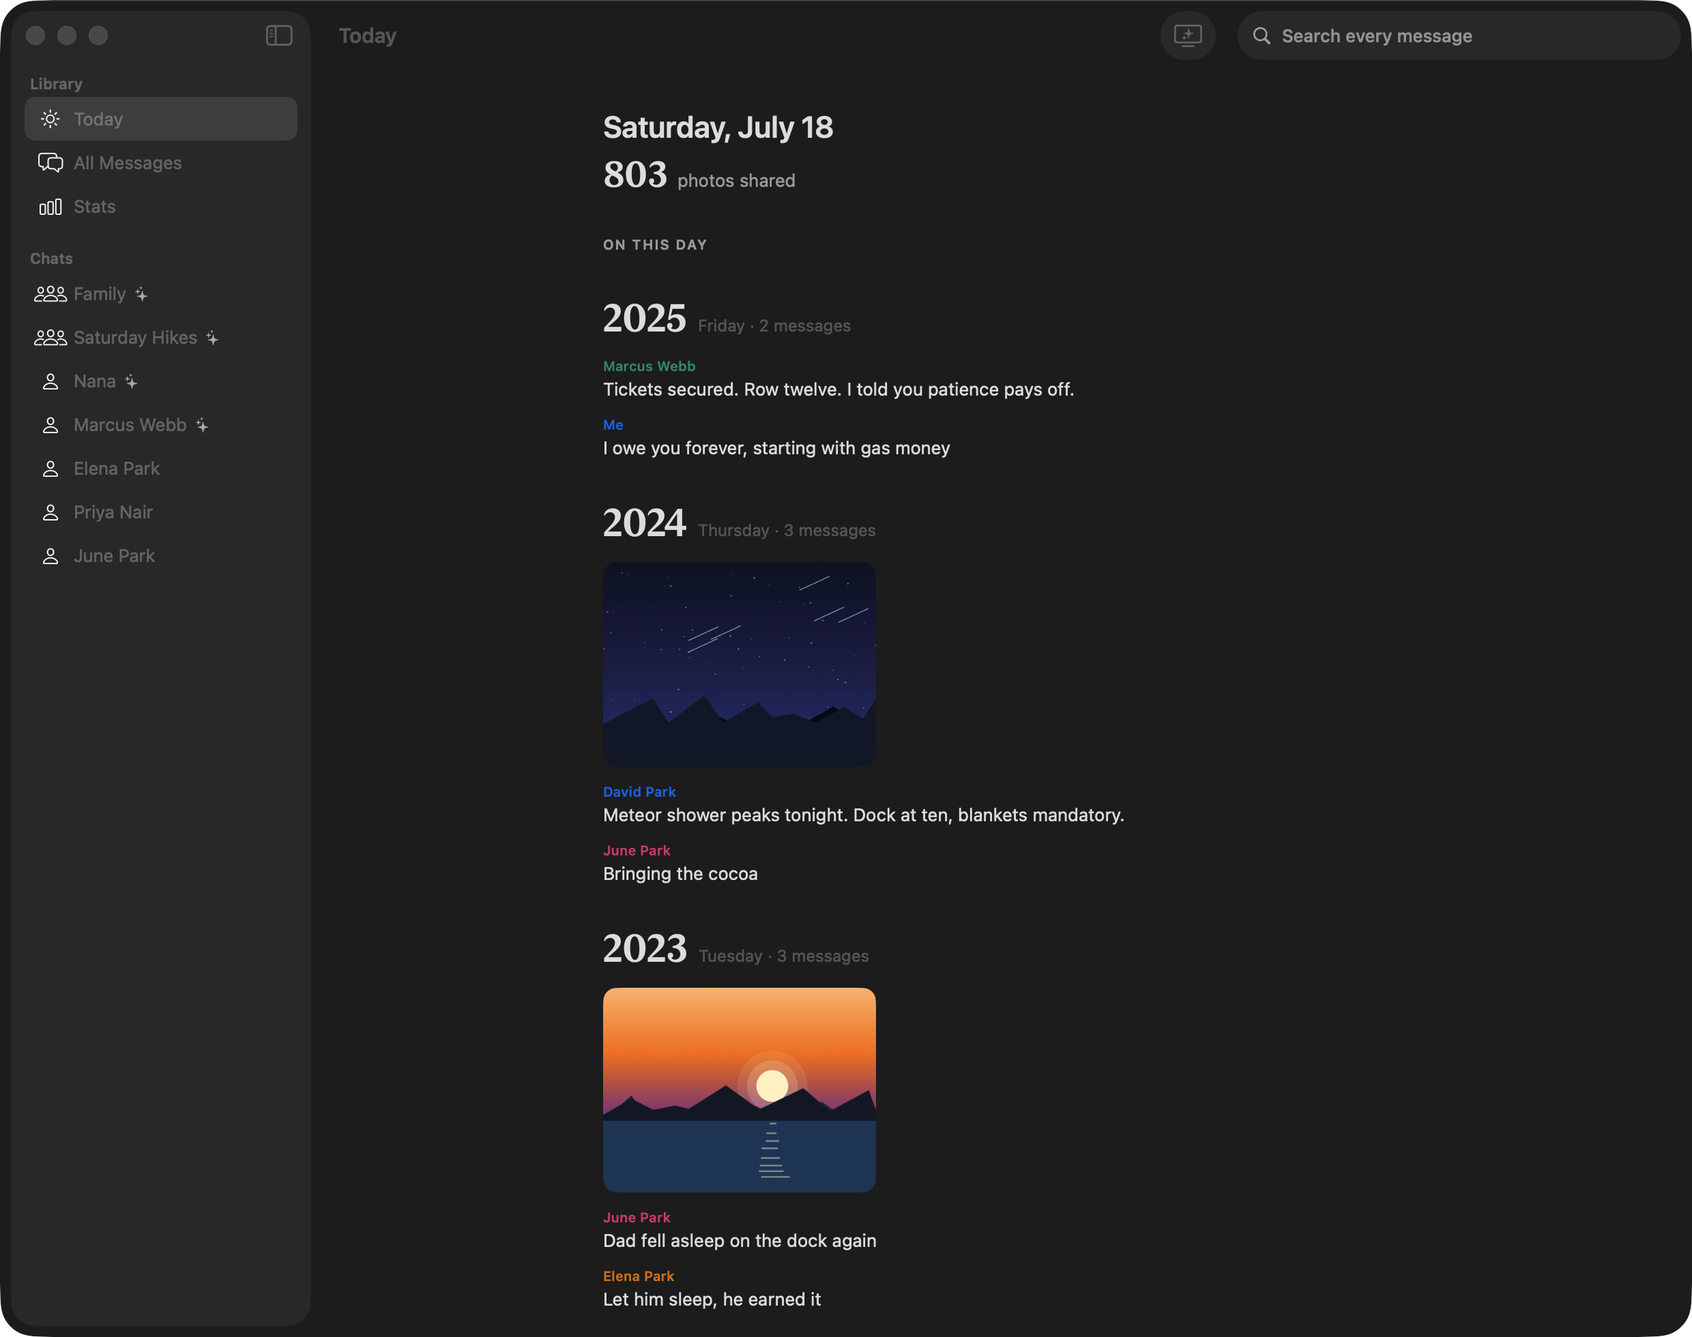
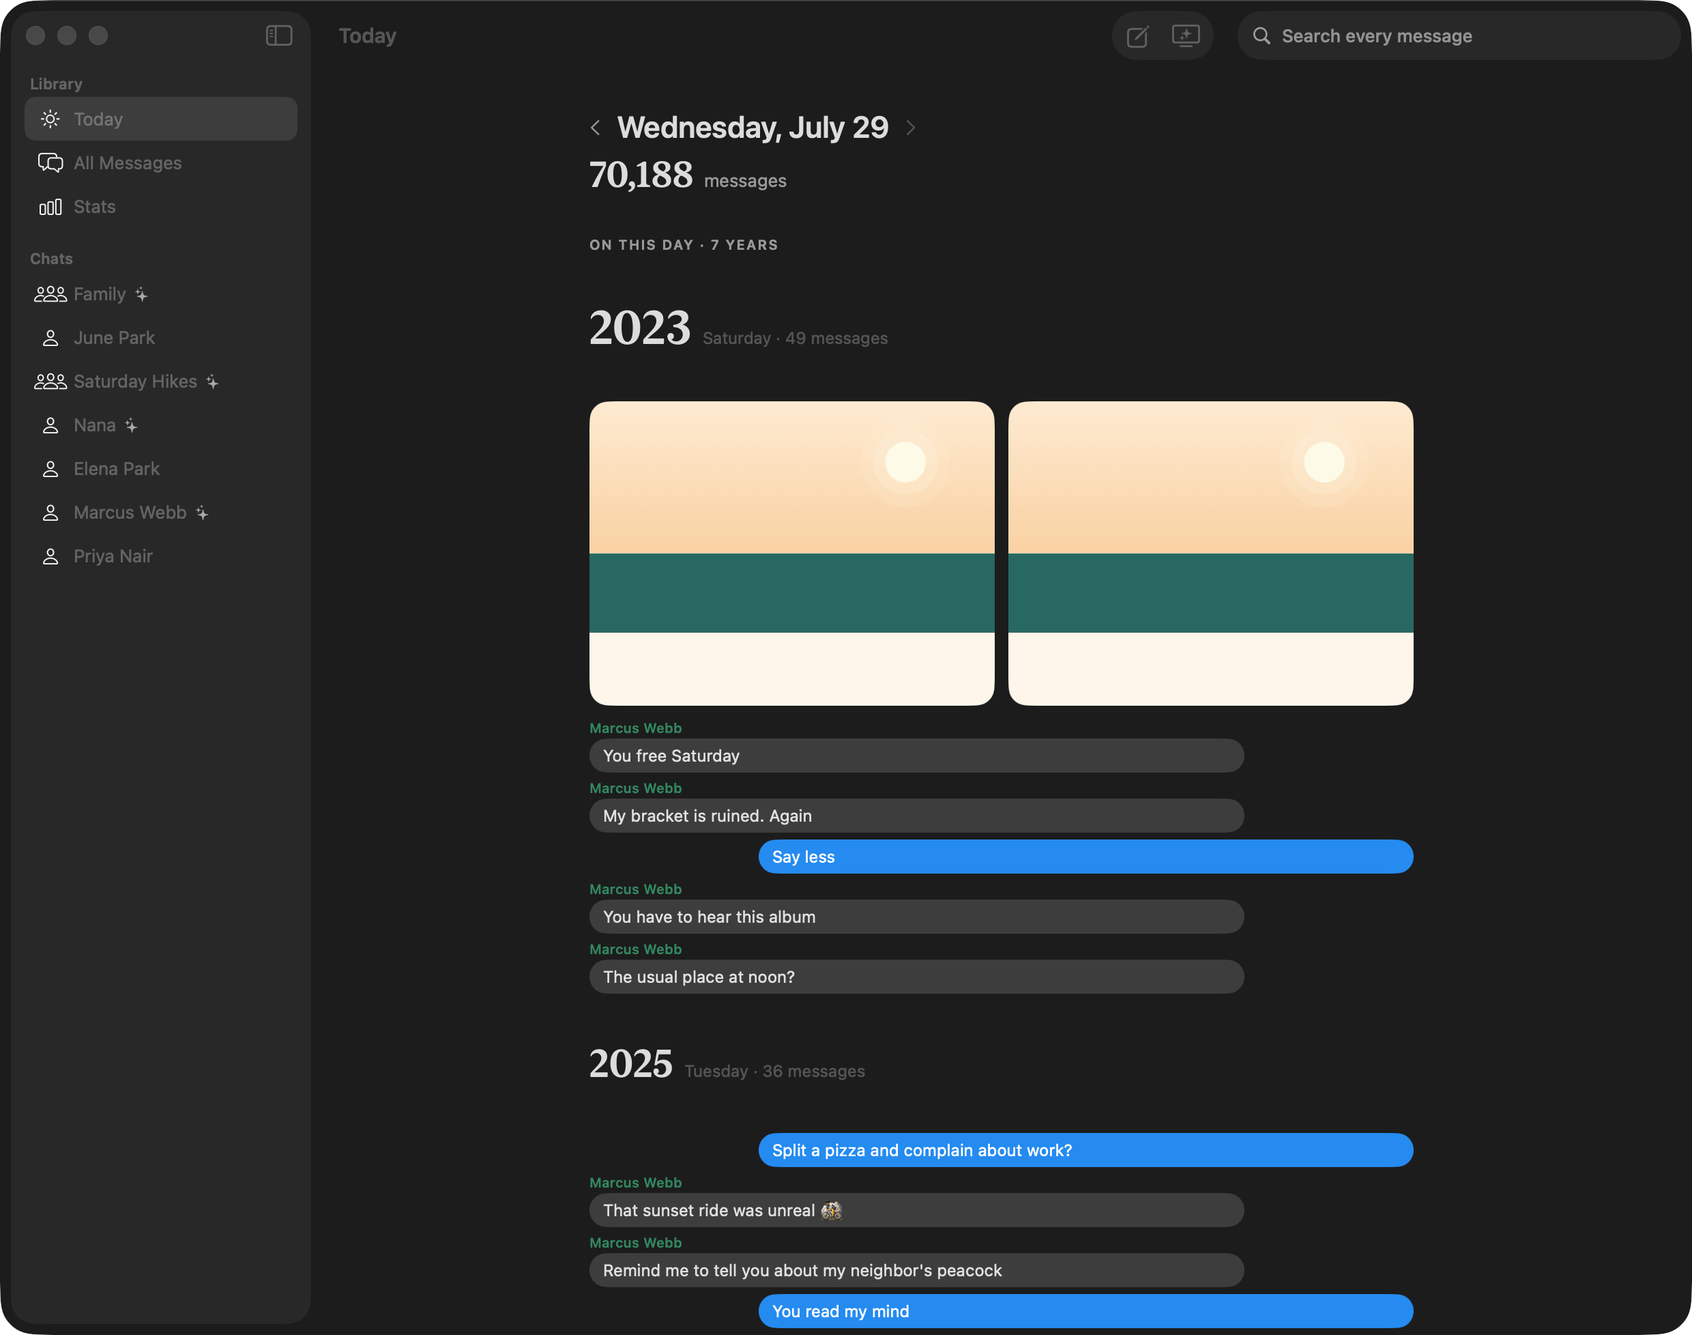
1.3.0 documentation: the release that answers back
Holistic rewrite, one voice. Answer joins the pillars with the
composer, quick reply, New Message, and the Quick Send hero shot
composited over a synthetic desktop. Today is described as the daily
edition it now is. The install story covers the honest permissions
map, sending's two second catch window and echoed-row truthfulness,
Photos rescue, one-human unification, the Cmd+/ cheat sheet, and the
update rehearsal policy. Every screenshot regenerated from demo mode.
Product spec synced from source. Stays on this branch until 1.3.0
ships.

diff --git a/product-spec.md b/product-spec.md
@@ -1,9 +1,11 @@
 # Delivered, product spec
 
-Updated 2026-07-18 (v1.3 shipped: the ship pipeline). Supersedes the framing in the original
-MLP plan (2026-07-11, on Jeff's machine); architecture and decisions from
-that plan carry forward unchanged and are restated here so this document
-stands alone.
+Updated 2026-07-30 (1.3.0 candidate: the sending release). Supersedes
+the framing in the original MLP plan (2026-07-11, on Jeff's machine);
+architecture and decisions from that plan carry forward unchanged and
+are restated here so this document stands alone. Version labels below
+match shipped app versions: the ship pipeline landed inside the 1.2
+series, and 1.3.0 is the release that answers back.
 
 ## Thesis
 
@@ -15,7 +17,8 @@ SQLite file behind Full Disk Access.
 
 **Delivered is the advanced view of Messages that Apple never wrote.**
 Search everything in milliseconds. Browse the whole archive as one
-continuous timeline. Export any chat as clean Markdown or structured
+continuous timeline. Answer from wherever the archive moved you, without
+losing your place. Export any chat as clean Markdown or structured
 JSON, in formats designed to drop straight into an LLM context window. And put
 the whole thing on a TV as ambient art with memories mode.
 
@@ -44,18 +47,30 @@ the timeline where Apple ships theirs.
    LLM context: "drop your family chat into Claude and ask it
    questions." The .delivered archive package is the machine-portable
    whole-library form.
-4. **Memories**: fullscreen ambient mode: Ken Burns photos, temporally
-   coherent quote bubbles, tapback bursts, stats. The showcase, the
-   demo, the reason someone installs it, and then pillars 1-3 keep it
-   installed.
+4. **Answer** (1.3.0): the archive moves you, and you can act on it
+   without leaving. A composer under every transcript, quick reply on
+   Today cards and search hits, Cmd+N for a fresh conversation with
+   anyone in Contacts, and Quick Send, a global hotkey panel that sends
+   a message from any app without switching. Sending goes through
+   Messages.app via Apple Events; the archive itself stays read-only
+   forever, and nothing is ever claimed sent until the echoed row
+   appears in the library.
+5. **Memories**: fullscreen ambient mode: Ken Burns photos, ambient
+   video clips, temporally coherent quote bubbles, tapback bursts,
+   stats. The showcase, the demo, the reason someone installs it, and
+   then the other pillars keep it installed.
 
 ## Privacy posture (non-negotiable, and the marketing headline)
 
-100 percent local. No accounts, no analytics, no telemetry. Read-only
-snapshot of chat.db; never writes to Messages. One honest exception to
-"no network calls," arriving with v1.3: the updater fetches the appcast
-and DMG from the public delivered-releases repo, and only that, and
-it can be switched off in Settings.
+100 percent local. No accounts, no analytics, no telemetry. The
+ARCHIVE is read-only forever: Delivered reads a snapshot of chat.db
+and never writes to it. Sending (v1.3) does not bend that: the
+composer asks Messages.app to send via Apple Events, the same door
+any automation uses, gated by the macOS Automation permission at
+your first send. Delivered is the button, not the pipe; nothing
+sends without a human pressing Return, and the MCP server stays
+read-only so agents can read but only you can send. The one network
+call remains the updater's appcast fetch, user-disableable.
 Curation guarantees: nothing outside explicitly included chats appears in
 memories mode; hide-forever is one keystroke; exports are user-initiated
 files that go where the user says and nowhere else.
@@ -182,16 +197,7 @@ tested engine reusable by future archive consumers.
   videos copied as-is in media exports.
 - 61 tests.
 
-## Roadmap
-
-v1.1 remaining (verification, not construction):
-- Developer ID signing live (cert pending: Jeff's portal step), then
-  notarized DMG builds.
-- VoiceOver and keyboard-navigation audit; 4K memories perf check;
-  frame-restoration check (docs/hig-checklist.md unchecked items).
-- All Messages transcript windowing if the ~284k-row load feels slow.
-
-## Shipped (v1.3, 2026-07-17/18), the ship pipeline
+## Shipped (1.2 series, 2026-07-17/18), the ship pipeline
 
 - Signed: Developer ID Application (RF22UW723X), hardened runtime,
   inside-out signing including Sparkle's helpers (scripts/sign.sh).
@@ -218,16 +224,82 @@ v1.1 remaining (verification, not construction):
   installed 1.2.0 found it silently, staged it, and self-updated to
   1.2.1 on one click of the quiet line. The full loop works.
 
-v1.3 candidates (deferred deliberately from v1.2):
-- Photo recovery via the Photos library: many evicted attachments exist
-  in Photos; capture-date matching could refill Today, memories, and
-  exports. Needs PhotoKit and its own permission conversation.
-- Ambient video clips inside memories mode (muted AVPlayer layers in
-  the sequencer), the TV dream, done properly.
+## Shipped (1.3.0, 2026-07-29), the release that answers back
+
+The archive learned to hold a pen. Everything below was verified
+against a live 284k-message library before release.
+
+- Sending, built on one inviolable rule: the archive is read-only
+  forever. SendService asks Messages.app to send via Apple Events, the
+  same door any automation uses, gated by the macOS Automation
+  permission at first send. The lifecycle never lies: a message lifts
+  from the composer (with a 2 second Cmd+. catch window), hands to
+  Messages, and is only marked delivered when the echoed row appears in
+  the library itself. Failures surface amber with one-click retry.
+  iMessage first, SMS fallback for text-only phone sends.
+- The composer: under every transcript, Messages' own visual language,
+  paste-a-photo support, emoji palette, drafts that survive navigation,
+  send-scrolls-home. Reply in the very place the archive moved you.
+- Quick reply: Today cards and search hits grow a reply button that
+  answers in place, with the surrounding messages for context.
+- New Message (Cmd+N): a compose window in Mail's lineage, with
+  full-archive and full-Contacts people search, so the first text to a
+  new plumber starts in Delivered too.
+- Quick Send: a global hotkey (default Ctrl+Option+D, recordable in
+  Settings) summons a Spotlight-height panel over any app: type a name,
+  type the message, Return, back to work. Never activates the app, Esc
+  preserves the draft.
+- Live sync: a file watcher on chat.db means arriving messages appear
+  in about 3 seconds while the app is open, and sends confirm
+  themselves. Unread badges from the archive's own read state.
+- On This Day, the true edition: each visit to Today past the Lately
+  act is that date's edition across every year you have been texting,
+  a hero year chosen by substance, vignettes with the conversation
+  around each artifact, first-message milestones, and Cmd+G to open
+  any date's edition. Chevrons page between days.
+- Photos recovery: Messages evicts most attachment files from disk;
+  many of those photos still live in the Photos library. Recovery
+  matches by original filename and capture window (its own permission,
+  asked honestly in Settings) and refills Today, memories, and exports.
+- Ambient video clips in memories mode: muted, looped, era-correct.
+- Same-human stitching: one person texting from a phone number and an
+  email is one sidebar row, one transcript, one search scope,
+  automatically (62 stitched families became 83 on the reference
+  library).
+- Settings, the honest map: four permission rows (Full Disk Access,
+  Contacts, Automation, Photos), each live-probed with why and a
+  button; Quick Send shortcut recorder; Photos recovery lives where
+  the permission does.
+- Help, answered the Gruber way: Delivered Help (Cmd+/) is a local,
+  instant keyboard cheat sheet, and the project page link sits under
+  it. No empty help book.
+- Demo mode (DELIVERED_DEMO=1) boots a fully fictitious library for
+  every public screenshot; it is hard-gated from real Contacts and
+  real sending.
+- Release safety: scripts/test-update.sh rehearses the real Sparkle
+  update from the currently shipped public build to the local
+  candidate before any user can receive it. Proven live: public 1.2.4
+  updated itself to the 1.3.0 candidate through the genuine pipeline.
+- 83 tests across 22 suites; perf budgets re-verified at 284k messages
+  (search 1-2ms, edition build 1.5ms, whole-library stats 56ms).
+
+Decided against, permanently: integrating the imsg CLI at runtime
+(learn from its source, never depend on it), tier-3 injection
+features (tapbacks, edits, unsend, typing indicators), and any path
+that writes chat.db. The MCP server stays read-only: agents read,
+humans send.
+
+## Roadmap
+
+Verification remaining (not construction):
+- 4K memories perf check (hardware-blocked until a 4K display is
+  available).
 
 v2 (the big screen):
 - tvOS/iPad companion consuming .delivered archives (iCloud Drive or
   local network sync). The TV is the endgame for memories mode.
+- Considered and parked: Stats hero-card ranking, composer attachment
+  folding. Taste calls, revisit with real tester feedback.
 
 ## Naming and trademark
 
@@ -253,3 +325,11 @@ Delivered is not affiliated with Apple.
   shipped in one push (MCP, copy-as-context, person unification, saved
   searches, idle start, video). Photos-library recovery and ambient
   clips deferred to v1.3 by choice.
+- 2026-07-24: sending architecture decided. Apple Events to
+  Messages.app only; never write chat.db; never integrate the imsg
+  CLI at runtime (its source is a reference, not a dependency); tier-3
+  injection features permanently out; no send is claimed delivered
+  without the echoed library row.
+- 2026-07-29: 1.3.0 gated on Jeff's hands-on sign-off before release.
+  Auto-update rehearsal added as a standing pre-release step
+  (scripts/test-update.sh) and proven against the live 1.2.4.

diff --git a/README.md b/README.md
@@ -7,7 +7,7 @@ own: years of family life, decisions, jokes, photos, logistics. Apple
 gives you almost nothing to do with it: search is shallow, export does
 not exist, there is no API. Delivered is the missing layer: a native
 macOS app that turns your Messages archive into something you can
-actually search, browse, export, and enjoy.
+actually search, browse, answer, export, and enjoy.
 
 Everything stays on your Mac. The full product thesis lives in the
 [product spec](product-spec.md).
@@ -19,28 +19,32 @@ Everything stays on your Mac. The full product thesis lives in the
 1. Download the latest DMG from [Releases](../../releases).
 2. Drag Delivered to Applications and open it.
 3. Grant Full Disk Access when asked. The Messages database lives
-   behind it, and nothing works without it. Contacts access is optional
-   and turns raw phone numbers into names and photos everywhere.
-   Settings > Permissions shows the whole map: what is required, what
-   is optional, and why each exists.
-
-   <img src="images/permissions.png" width="520" alt="The Permissions window">
+   behind it, and nothing works without it. Everything else is
+   optional and asked for only when you use the feature that needs
+   it: Contacts turns raw phone numbers into names and photos,
+   Automation lets Messages send on your behalf the first time you
+   press Return on a reply, and Photos enables attachment rescue.
+   Settings > Permissions shows the whole map: what each permission
+   is for, its live status, and a button to grant or open it.
 4. The first import reads your entire history in well under a minute,
    with progress shown as message counts. After that the library keeps
-   itself current silently.
+   itself current: new messages appear within seconds while the app
+   is open.
 
 Requires macOS 14 or later. Signed and notarized with a Developer ID.
 
 ## What it does
 
-**Today** is the front door: what happened lately, then "on this day"
-across every year you have been texting: photos and the quotes worth
-keeping, different every morning. Every card opens the conversation at
-that day.
+**Today** is the front door. First what happened lately, then On This
+Day: a daily edition of this date across every year you have been
+texting. The richest year leads, photos replay with the conversation
+that surrounded them, milestones mark the first message from every
+person, and `Cmd+G` opens any date you can name. Different every
+morning, and every card opens the conversation at that day.
 
 <img src="images/today.png" width="760" alt="The Today pane: recent days with photos and quotes">
 
-<img src="images/on-this-day.png" width="760" alt="On this day: the same calendar day across earlier years">
+<img src="images/on-this-day.png" width="760" alt="On this day: a daily edition of this date across the years">
 
 **Find** is full-text search over your entire history, sub-second at
 hundreds of thousands of messages, with operators for precision (see
@@ -51,7 +55,29 @@ transcript: bubbles, sender clustering, contact photos, tapbacks, and
 video posters, with a year and month index for jumping across a
 decade in one click.
 
-<img src="images/browse.png" width="760" alt="The transcript: bubbles, clustering, and the year index">
+<img src="images/conversation.png" width="760" alt="A conversation: the transcript with the composer beneath it">
+
+**Answer** closes the loop. The archive moves you; now you can act on
+it without leaving. Every conversation has a composer, Today cards
+and search results grow a quick reply, and `Cmd+N` starts a fresh
+conversation with anyone in your contacts, even someone you have
+never texted.
+
+<img src="images/new-message.png" width="560" alt="New Message: compose to anyone, with contact search">
+
+And then there is Quick Send. Press `Ctrl+Option+D` in any app (the
+shortcut is yours to change) and a small panel floats over whatever
+you are doing: type a name, type the message, press Return, and you
+never left. Esc always keeps your draft.
+
+<img src="images/quick-send.png" width="760" alt="Quick Send floating over the desktop">
+
+Sending is honest by design. Delivered never writes to your Messages
+database; it asks Messages itself to send, through the same door any
+Mac automation uses, with your explicit permission. You get a two
+second window to catch a message before it goes, and nothing is
+marked delivered until it truly lands in the archive. Failures show
+themselves, amber, with a one-click retry.
 
 **Export** turns any chat into clean Markdown or structured JSON,
 filtered by person or date range, previewed before saving, with photos
@@ -62,19 +88,22 @@ same for search results or a whole conversation, trimmed to a sane
 token budget.
 
 **Memories** is the showcase, a fullscreen ambient mode that turns a
-chat into art: photos with a slow Ken Burns drift, message bubbles
-from the same era floating over them, tapback bursts, the occasional
-stat. It draws only from chats you explicitly include, can start
-itself when your Mac goes idle, and ends the moment you touch
-anything.
+chat into art: photos with a slow Ken Burns drift, ambient video
+clips, message bubbles from the same era floating over them, tapback
+bursts, the occasional stat. It draws only from chats you explicitly
+include, can start itself when your Mac goes idle, and ends the
+moment you touch anything.
 
 <img src="images/memories.png" width="760" alt="Memories mode: a photo with a message bubble from the same era">
 
-**The archive grows.** Merge another Mac's Messages database and the
-libraries combine without duplicates. When Messages splits one group
-across multiple threads (it does), stitch them back into a single
-conversation. People who text you from both a phone number and an
-email resolve to one human everywhere.
+**The archive grows, and heals.** Merge another Mac's Messages
+database and the libraries combine without duplicates. When Messages
+splits one group across multiple threads (it does), they stitch back
+into a single conversation. A friend who texts from a phone number
+and an email is one person, one row, one history, automatically. And
+because macOS quietly evicts most old attachment files from disk,
+Delivered can rescue those photos from your Photos library and
+restore them to Today, memories, and exports.
 
 **And Stats keeps the superlatives**: total messages, photos kept,
 years of history, the busiest day, the chief reactor, the most loved.
@@ -95,9 +124,11 @@ Search operators compose with free text and with each other:
 Saved searches live in the star menu next to the filters; the query is
 the name.
 
-Keyboard: `Cmd+F` search, `Cmd+Shift+M` memories, `Cmd+Z` undoes a
-hide, `Cmd+Shift+R` syncs now, `Space`/arrows/`H`/`Esc` inside
-memories.
+The whole app plays keyboard: `Cmd+/` opens Delivered Help, an
+instant cheat sheet of every shortcut. The ones worth memorizing:
+`Cmd+F` search, `Cmd+N` new message, `Ctrl+Option+D` Quick Send from
+anywhere, `Cmd+.` catches a send before it goes, `Cmd+G` opens any
+date's edition, `Cmd+Shift+M` memories.
 
 The binary is also a CLI:
 
@@ -111,26 +142,41 @@ delivered --serve-mcp
 
 `--serve-mcp` runs a local MCP server over stdio with three tools
 (`search_messages`, `get_transcript`, `list_chats`) so Claude and any
-MCP client can search your archive without your data going anywhere:
+MCP client can search your archive without your data going anywhere.
+The MCP server is read-only by design: agents can read your archive,
+but only you can send.
 
 ```
 claude mcp add delivered -- /Applications/Delivered.app/Contents/MacOS/Delivered --serve-mcp
 ```
 
+## Settings
+
+One window, honest throughout: your library and sync, the Quick Send
+shortcut recorder, memories curation, and the permissions map with
+live status and a button for each.
+
+<img src="images/settings.png" width="640" alt="Settings: library, updates, and the Quick Send shortcut">
+
 ## Updates
 
 Updates are unobtrusive by policy: no dialog, ever. The app checks
 quietly, downloads in the background, and offers one dismissible line
-in the corner of the sidebar: "1.2.1 ready, relaunch". Ignore it
+in the corner of the sidebar: "1.3.0 ready, relaunch". Ignore it
 and the update installs the next time you quit. Automatic checks can
-be switched off in Settings.
+be switched off in Settings. Every release is rehearsed before it
+ships: the previous public build must prove it updates itself to the
+new one through the real pipeline.
 
 ## Privacy
 
 100 percent local. No accounts, no analytics, no telemetry. Delivered
 reads a private, read-only snapshot of your Messages database and never
-writes to Messages. The only network call the app ever makes is the
-update check against this repository, and it can be turned off.
+writes to Messages. Sending does not bend that: Delivered is the
+button, not the pipe; Messages itself does the sending, and nothing
+sends without a human pressing Return. The only network call the app
+ever makes is the update check against this repository, and it can be
+turned off.
 
 Curation is absolute: nothing outside the chats you explicitly include
 can appear in memories mode, a keyword blocklist is honored everywhere
@@ -151,8 +197,9 @@ the public home: releases, the update feed, and the product spec. The
 source is private for now.
 
 The screenshots above show a demo library: the people, messages, and
-photos in them are fictitious, generated by the app's demo mode. Your
-real data never leaves your Mac, including for marketing.
+photos in them are fictitious, generated by the app's demo mode, and
+the desktop behind Quick Send is synthetic. Your real data never
+leaves your Mac, including for marketing.
 
 Delivered is not affiliated with Apple. Messages and iMessage are
 trademarks of Apple Inc.
